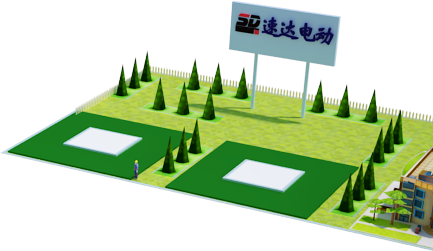
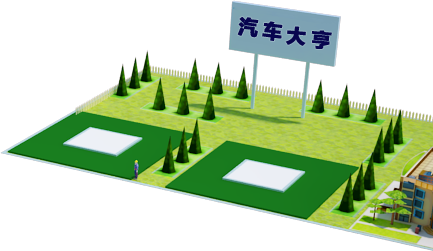
(1)删除项目中出现的速达字样,更改为其他说明 (2)个人中心更改为社区 (3)速达游戏新增音效 (4)修复充值问题 (5)增加返回钱包入口

Changed region(s): [[0.5404, 0.0558, 0.7806, 0.1952]]

diff --git a/src/page/game/game_ElectricPower.vue b/src/page/game/game_ElectricPower.vue
@@ -7,19 +7,19 @@
 					<div class="list flex-row">
 						<h4>电力:</h4>
 						<img src="../../../static/images/game/game_ElectricPower_04_00.png" alt="" v-if="this.$route.query.time == 0">
-						<img src="../../../static/images/game/game_ElectricPower_04_01.png" alt="" v-if="this.$route.query.time == 1">
-						<img src="../../../static/images/game/game_ElectricPower_04_02.png" alt="" v-if="this.$route.query.time == 2">
-						<img src="../../../static/images/game/game_ElectricPower_04_03.png" alt="" v-if="this.$route.query.time == 3">
-						<img src="../../../static/images/game/game_ElectricPower_04_04.png" alt="" v-if="this.$route.query.time == 4">
-						<img src="../../../static/images/game/game_ElectricPower_04_05.png" alt="" v-if="this.$route.query.time == 5">
-						<img src="../../../static/images/game/game_ElectricPower_04_06.png" alt="" v-if="this.$route.query.time == 6">
-						<img src="../../../static/images/game/game_ElectricPower_04_07.png" alt="" v-if="this.$route.query.time == 7">
-						<img src="../../../static/images/game/game_ElectricPower_04_08.png" alt="" v-if="this.$route.query.time == 8">
-						<img src="../../../static/images/game/game_ElectricPower_04_09.png" alt="" v-if="this.$route.query.time == 9">
-						<img src="../../../static/images/game/game_ElectricPower_04_10.png" alt="" v-if="this.$route.query.time == 10">
-						<img src="../../../static/images/game/game_ElectricPower_04_11.png" alt="" v-if="this.$route.query.time == 11">
-						<img src="../../../static/images/game/game_ElectricPower_04_12.png" alt="" v-if="this.$route.query.time == 12">
-						<h4>16小时</h4>
+						<img src="../../../static/images/game/game_ElectricPower_04_01.png" alt="" v-if="this.$route.query.time < 3">
+						<img src="../../../static/images/game/game_ElectricPower_04_02.png" alt="" v-if="this.$route.query.time < 5">
+						<img src="../../../static/images/game/game_ElectricPower_04_03.png" alt="" v-if="this.$route.query.time < 7">
+						<img src="../../../static/images/game/game_ElectricPower_04_04.png" alt="" v-if="this.$route.query.time < 9">
+						<img src="../../../static/images/game/game_ElectricPower_04_05.png" alt="" v-if="this.$route.query.time < 11">
+						<img src="../../../static/images/game/game_ElectricPower_04_06.png" alt="" v-if="this.$route.query.time < 13">
+						<img src="../../../static/images/game/game_ElectricPower_04_07.png" alt="" v-if="this.$route.query.time < 15">
+						<img src="../../../static/images/game/game_ElectricPower_04_08.png" alt="" v-if="this.$route.query.time < 17">
+						<img src="../../../static/images/game/game_ElectricPower_04_09.png" alt="" v-if="this.$route.query.time < 19">
+						<img src="../../../static/images/game/game_ElectricPower_04_10.png" alt="" v-if="this.$route.query.time < 21">
+						<img src="../../../static/images/game/game_ElectricPower_04_11.png" alt="" v-if="this.$route.query.time < 23">
+						<img src="../../../static/images/game/game_ElectricPower_04_12.png" alt="" v-if="this.$route.query.time < 25">
+						<h4>{{power}}小时</h4>
 					</div>
 					<div class="list flex-row">
 						<h4>充电:</h4>
@@ -42,7 +42,7 @@
         name: 'game_ElectricPower',
         data(){
             return {
-            	
+            	power : ""
             }
         },
         // 创建之前
@@ -51,7 +51,7 @@
   		},
   		//创建之后
   		created: function (){
-  			
+  			this.getMsg();
   		},
   		//挂载之前
   		beforeMount: function (){
@@ -69,19 +69,26 @@
 				this.$router.replace('game_index');
 			},
 			charging (){
-				this.axios.post('/index/suda_game/buyBattery',{
-					num : "1"
-				})
-				.then(({data}) => {
-					if (data.status == 200) {
-						this.layers(data.message);
-						setTimeout(() => {
-							this.$router.replace('game_index');
-						},1500)
-					} else{
-						this.layers(data.message);
-					}
-				})
+				if (this.$route.query.time == 23) {
+					this.layers("电力已满!")
+				} else{
+					this.axios.post('/index/suda_game/buyBattery',{
+						num : "1"
+					})
+					.then(({data}) => {
+						if (data.status == 200) {
+							this.layers(data.message);
+							setTimeout(() => {
+								this.$router.replace('game_index');
+							},1500)
+						} else{
+							this.layers(data.message);
+						}
+					})
+				}
+			},
+			getMsg (){
+				this.power = this.$route.query.time;
 			}
   		}
     }

diff --git a/src/page/game/game_pay.vue b/src/page/game/game_pay.vue
@@ -25,22 +25,22 @@
           <!--input box    充值转换-->
           <div class="Transformation">
 						<div class="flex-col" v-show="showLeft">
-							<div class="input_box flex-row">
+							<div class="input_box flex-row" >
 								<span>充值&nbsp;</span>
-								<input type="number" v-model="ETH">
-								<span>&nbsp;ETH &nbsp;=&nbsp;</span>
-								<input type="number" v-model="eths">
+								<input type="number" v-model="SDT" >
+								<span>&nbsp;SDT &nbsp;=&nbsp;</span>
+								<input type="number" v-model="sdts" >
 								<span>&nbsp;金币</span>
 							</div>
 							<!--按钮-->
 							<div class="btns flex-col" @click="btnLeft()"></div>
 						</div>
 						<div class="flex-col" v-show="showRight">
-							<div class="input_box flex-row" >
+							<div class="input_box flex-row">
 								<span>充值&nbsp;</span>
-								<input type="number" v-model="SDT" >
-								<span>&nbsp;SDT &nbsp;=&nbsp;</span>
-								<input type="number" v-model="sdts" >
+								<input type="number" v-model="ETH">
+								<span>&nbsp;ETH &nbsp;=&nbsp;</span>
+								<input type="number" v-model="eths">
 								<span>&nbsp;金币</span>
 							</div>
 							<!--按钮-->
@@ -109,20 +109,6 @@
 				},
 				btnLeft (){
 					this.axios.post('/index/suda_game/rechangeGold',{
-						num : this.ETH,
-						type : "ETH"
-					})
-					.then(({data}) => {
-						if (data.status == 200) {
-							this.layers(data.message);
-							this.ETH = ""
-						} else{
-							this.layers(data.message);
-						}
-					})
-				},
-				btnRight (){
-					this.axios.post('/index/suda_game/rechangeGold',{
 						num : this.SDT,
 						type : "SDT"
 					})
@@ -130,6 +116,20 @@
 						if (data.status == 200) {
 							this.layers(data.message);
 							this.SDT = ""
+						} else{
+							this.layers(data.message);
+						}
+					})
+				},
+				btnRight (){
+					this.axios.post('/index/suda_game/rechangeGold',{
+						num : this.ETH,
+						type : "ETH"
+					})
+					.then(({data}) => {
+						if (data.status == 200) {
+							this.layers(data.message);
+							this.ETH = ""
 						} else{
 							this.layers(data.message);
 						}

diff --git a/src/page/game/game_index.vue b/src/page/game/game_index.vue
@@ -52,6 +52,9 @@
 						<img src="../../../static/images/game/game_index_10.png" alt="">
 					</router-link>
 					<img src="../../../static/images/game/game_index_11.png" alt="" v-show="false">
+					<router-link to="application">
+						<img class="return_img" src="../../../static/images/game/game_play_02.png" alt="">
+					</router-link>
 				</div>
 			</div>
 			<div class="bottom-module flex-row">
@@ -406,6 +409,10 @@
 						this.layers(data.message);
 						this.getMsg();
 						this.getGoldList();
+						this.getStatus1();
+						setTimeout(() => {
+							this.music.game_sound = 2;
+						},2000)
 					} else{
 						this.layers(data.message);
 					}
@@ -531,7 +538,7 @@
 	}
 	.right-module{
 		width: 1.5rem;
-		height: 86vh;
+		height: 88vh;
 		justify-content: space-between;
 		position: fixed;
 		top: 1.4rem;
@@ -547,6 +554,10 @@
 		width: 1.22rem;
 		height: 1.22rem;
 		margin-bottom: 0.2rem;
+	}
+	.return_img{
+		width: 0.9rem!important;
+		height: 0.9rem!important;
 	}
 	.bottom-module{
 		width: 100%;

diff --git a/src/page/aboutUs.vue b/src/page/aboutUs.vue
@@ -3,7 +3,7 @@
 		<headerBar :title="indexTitle"></headerBar>
 		<div class="top-text flex-col">
 			<img src="../../static/images/aboutUs_01.png" alt="">
-			<p>速达钱包S-TOKEN集合了数字钱包系统、OTC场外交易 游戏、商城、竞猜、理财6大功能板块，并基于全球通用 标准ERC20发行速达通证SDT.</p>
+			<p>S-TOKEN钱包S-TOKEN集合了数字钱包系统、OTC场外交易 游戏、商城、竞猜、理财6大功能板块，并基于全球通用 标准ERC20发行S-TOKEN通证SDT.</p>
 		</div>
 		<div class="updata flex-row">
 			<div class="updata-child flex-row">

diff --git a/src/page/game/game_play.vue b/src/page/game/game_play.vue
@@ -23,8 +23,8 @@
 								<p>建筑开发：只有一个建筑满级时才可以发开下一个建筑，越往后的建筑赠送生产力越多；</p>
 							</div>
 							<div class="tab-card">
-								<p>1.玩家通过速达钱包地址向游戏转账即可完成充值</p>
-								<p>2.可以充值0.01-119个ETH；</p>
+								<p>1.玩家通过S-TOKEN钱包地址向游戏转账即可完成充值</p>
+								<p>2.最少充值0.01个ETH；</p>
 								<p>3.1ETH=1000金币</p>
 							</div>
 							<div class="tab-card">

diff --git a/src/page/moreInformation.vue b/src/page/moreInformation.vue
@@ -13,7 +13,7 @@
 				<img src="../../static/images/moreInformation_02.png" alt="">
 				<h4>新浪微博</h4>
 			</div>
-			<h5>速达钱包官方账户</h5>
+			<h5>S-TOKEN钱包官方账户</h5>
 		</div>
 		<div class="list flex-row">
 			<div class="list-left flex-row">

diff --git a/src/page/userCenter.vue b/src/page/userCenter.vue
@@ -22,7 +22,7 @@
 				<router-link to="myTeam">
 					<div class="bottom-list flex-col">
 						<img src="../../static/images/userCenter_03.png" alt="">
-						<h4>团队</h4>
+						<h4>社区</h4>
 					</div>
 				</router-link>
 				<router-link to="transferRecord">
